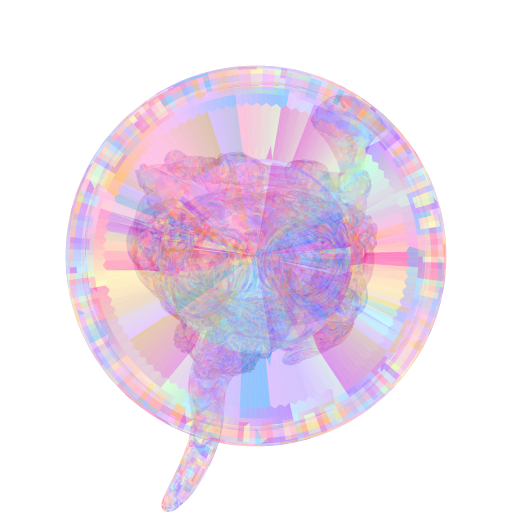
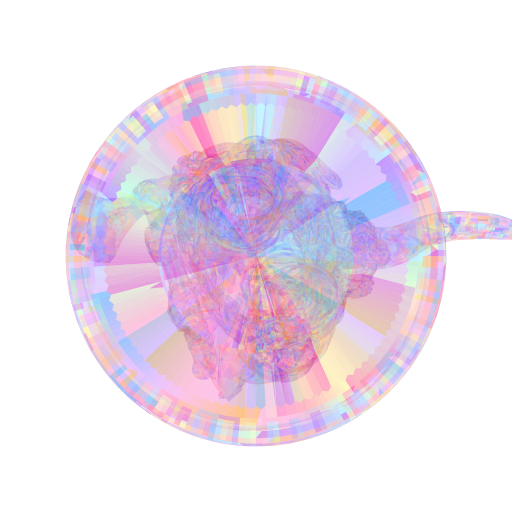
Store perspective in constant

diff --git a/PrintingCatalog/Services/SkiaStlModelRenderer.cs b/PrintingCatalog/Services/SkiaStlModelRenderer.cs
@@ -94,15 +94,8 @@ public class SkiaStlModelRenderer : IStlModelRenderer
 
     private static Vector2 ProjectPoint(Vector3 point)
     {
-        // const float perspective = 200;
-        // const float projectionCenterX = 128; // width / 2
-        // const float projectionCenterY = 128; // height / 2
-        //
-        // var scaleProjected = perspective / (point.Z + perspective);
-        // var x = point.X * scaleProjected + projectionCenterX;
-        // var y = point.Y * scaleProjected + projectionCenterY;
-
-        var scale = 1000 / (point.Z + 1000);
+        const float perspective = 1000;
+        var scale = perspective / (point.Z + perspective);
 
         var x = point.X * scale;
         var y = point.Y * scale;
